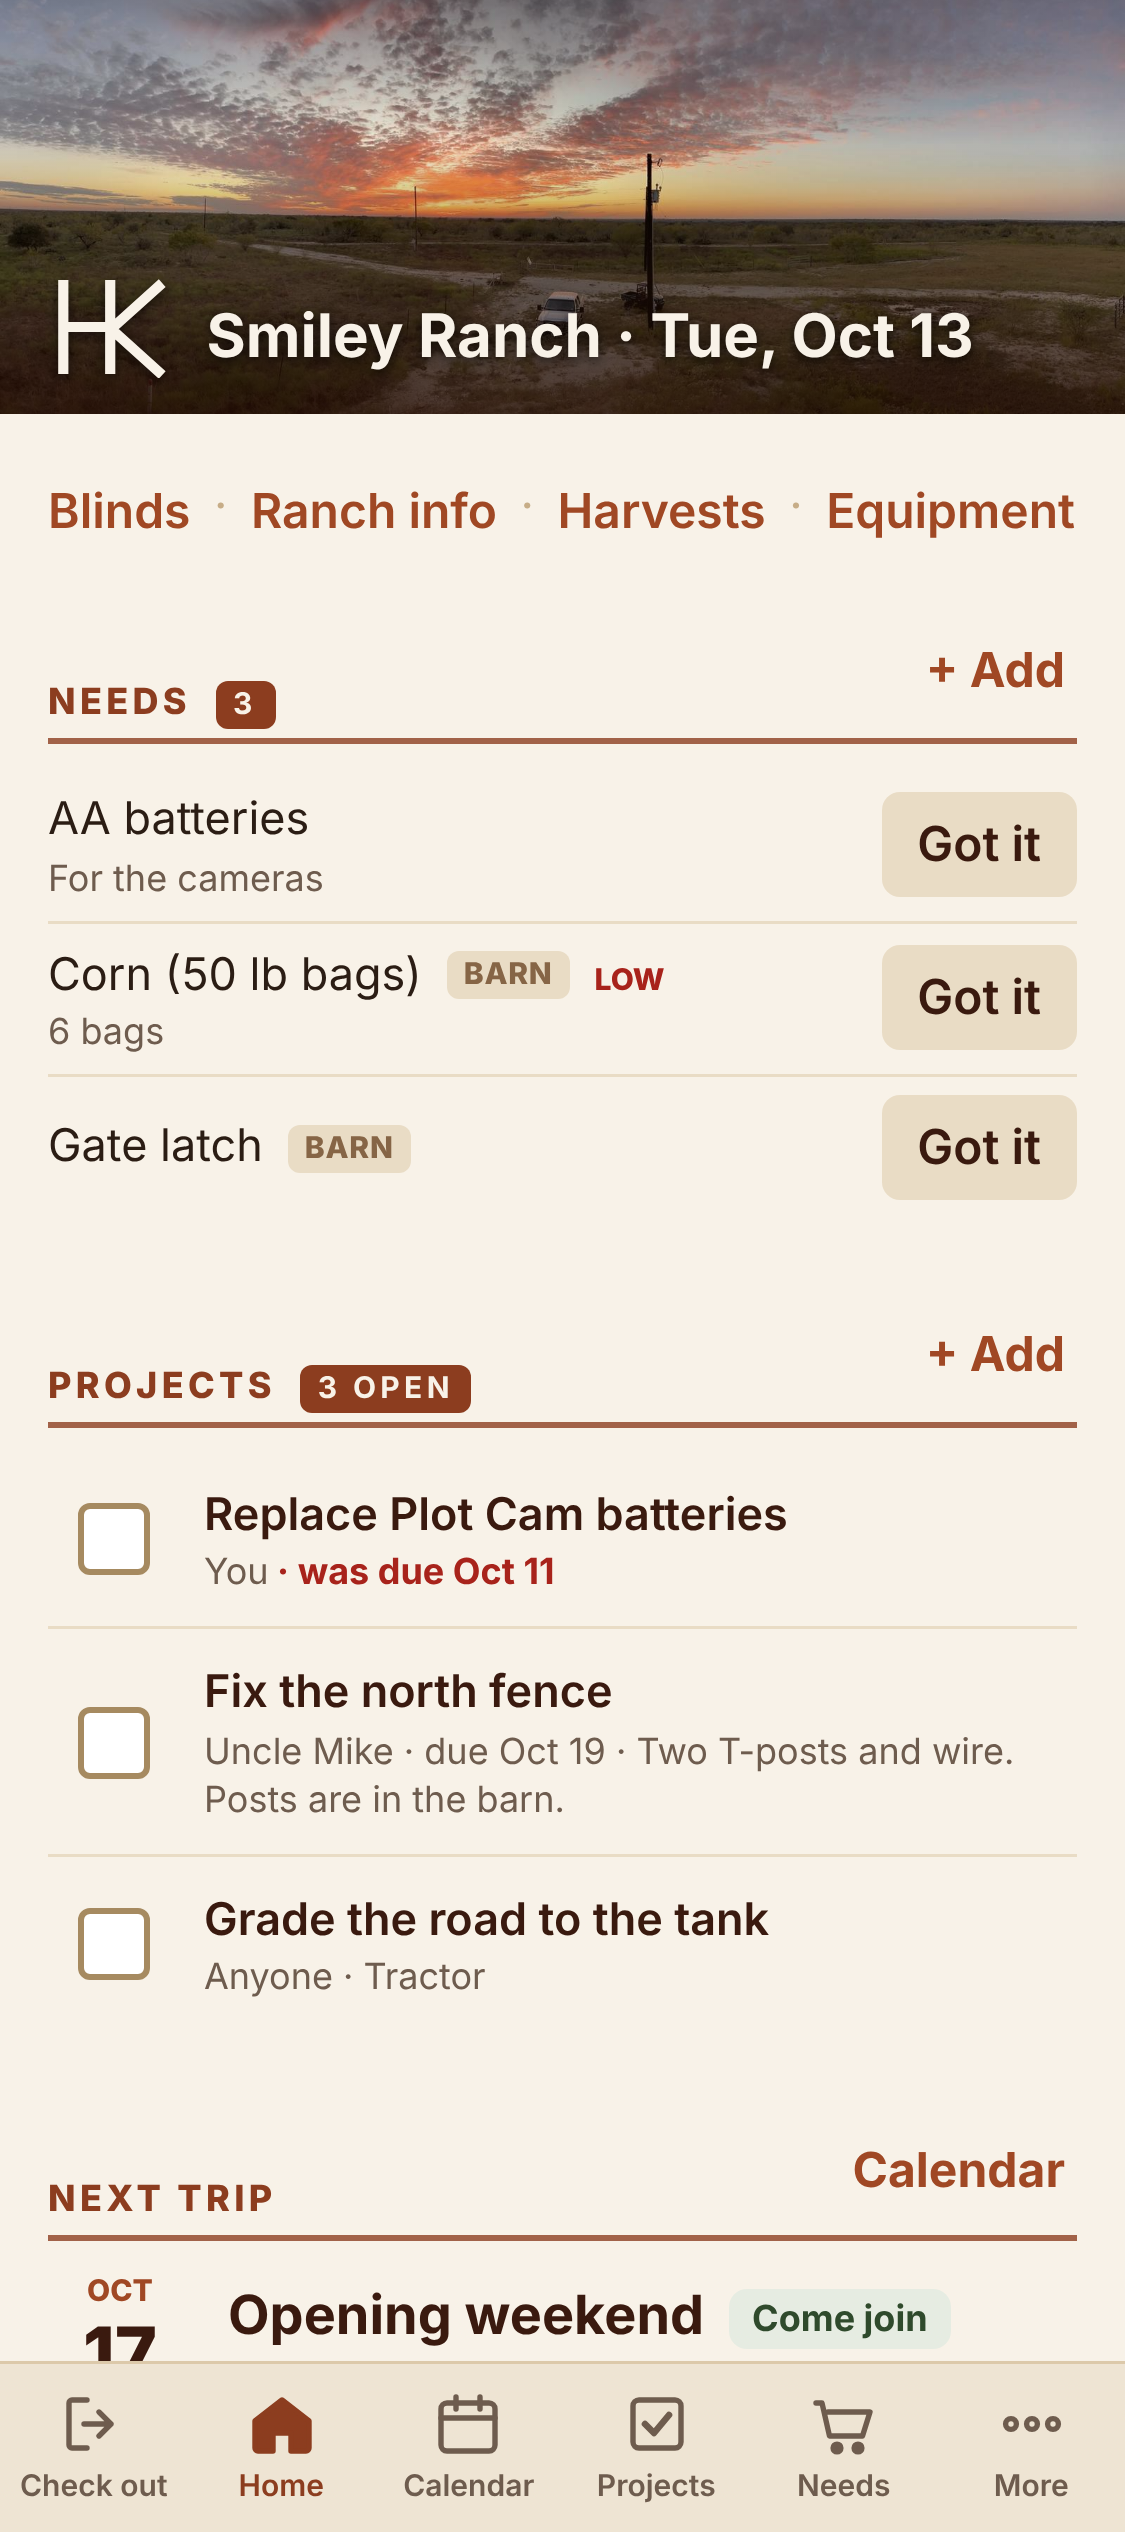
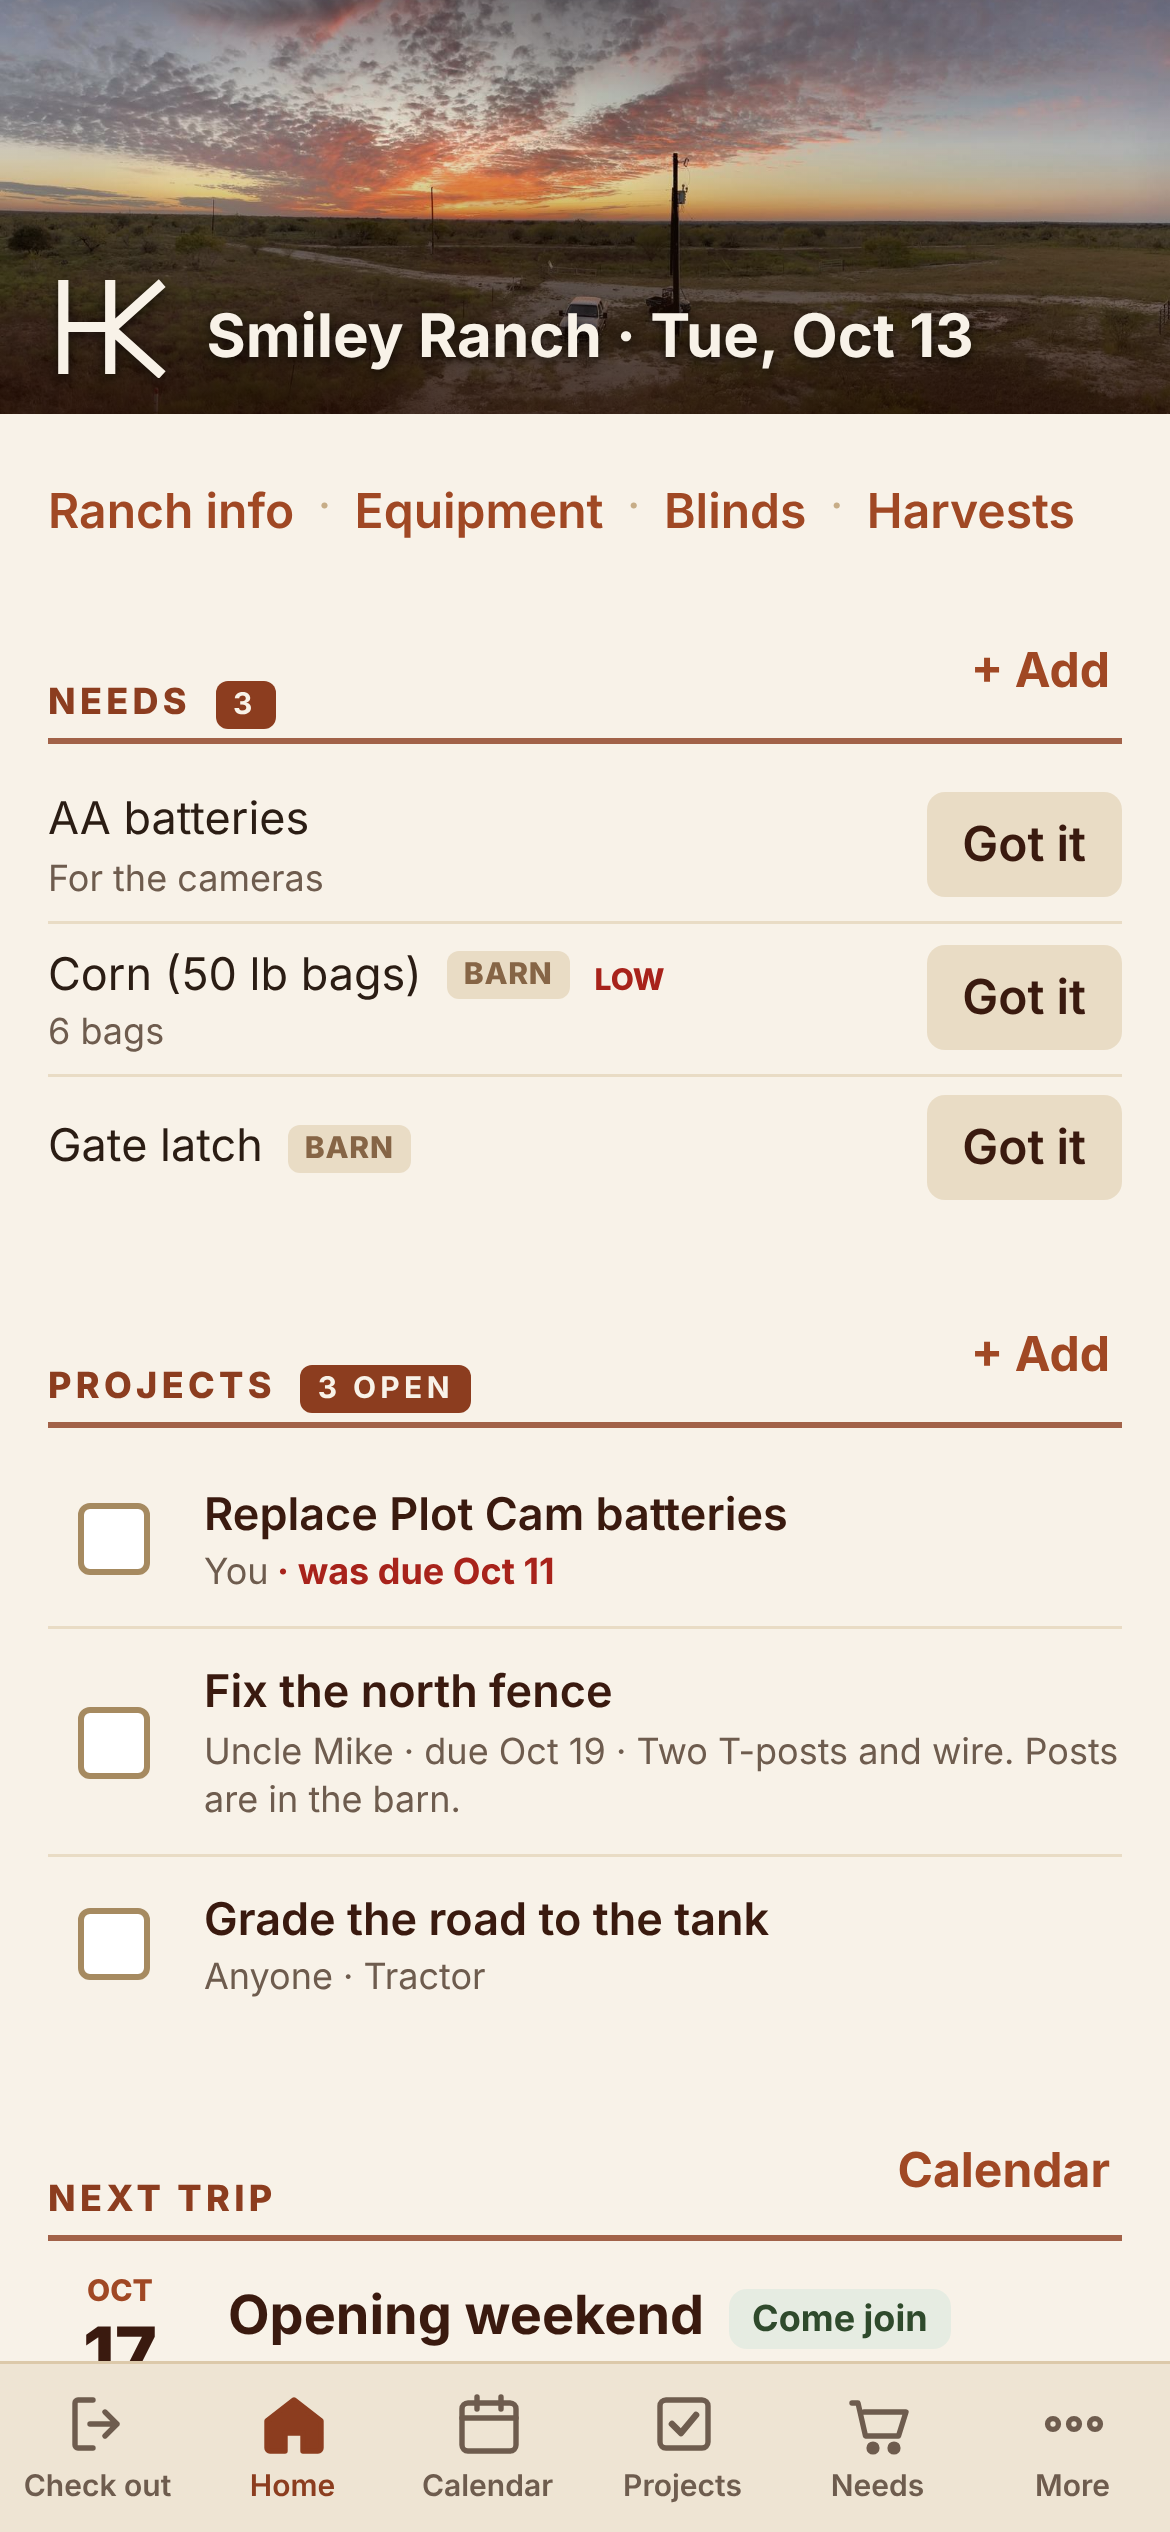
Ribbon order: Ranch info, Equipment, Blinds, Harvests; anyone can add equipment
Claude-Session: https://claude.ai/code/session_01RjS6QfguHLSCFchmoCiRhY

diff --git a/src/screens/Equipment.tsx b/src/screens/Equipment.tsx
@@ -57,12 +57,12 @@ export function Equipment() {
   }
 
   return (
-    <Screen title="Equipment" back="/" right={me.is_admin ? <button type="button" onClick={() => setAdding(true)} className="tap rounded-lg px-3 font-semibold active:bg-clay-800">Add</button> : undefined}>
+    <Screen title="Equipment" back="/" right={<button type="button" onClick={() => setAdding(true)} className="tap rounded-lg px-3 font-semibold active:bg-clay-800">Add</button>}>
       {error && <Note kind="error" className="mb-3">{error}</Note>}
       {!assets ? (
         <div className="flex justify-center py-8 text-clay-900"><Spinner /></div>
       ) : assets.length === 0 ? (
-        <Note>Nothing listed yet.{me.is_admin ? ' Tap Add to put the truck, tractor and ATVs here.' : ''}</Note>
+        <Note>Nothing listed yet. Tap Add to put the truck, tractor and ATVs here.</Note>
       ) : (
         <ul className="space-y-2">
           {assets.map((a) => {
@@ -93,7 +93,7 @@ export function Equipment() {
           })}
         </ul>
       )}
-      <p className="mt-3 text-xs text-ink-muted">Anyone can mark something down and leave a note. Projects and needs tagged to a machine show up on it.</p>
+      <p className="mt-3 text-xs text-ink-muted">Anyone can add a machine, mark something down, and leave a note. Projects and needs tagged to a machine show up on it.</p>
 
       <Sheet open={open !== null} onClose={() => setOpen(null)} title={open?.name}>
         {open && (
@@ -124,13 +124,13 @@ export function Equipment() {
                 <Button variant="secondary" onClick={() => navigate(`/supplies?asset=${open.id}`)}>+ Need</Button>
               </div>
             </div>
-            {me.is_admin && <AdminAssetForm asset={open} onDone={async () => { setOpen(null); await reload() }} />}
+            <AdminAssetForm asset={open} canRemove={me.is_admin} onDone={async () => { setOpen(null); await reload() }} />
           </div>
         )}
       </Sheet>
 
       <Sheet open={adding} onClose={() => setAdding(false)} title="Add equipment or a building">
-        {adding && <AdminAssetForm asset={null} onDone={async () => { setAdding(false); await reload() }} />}
+        {adding && <AdminAssetForm asset={null} canRemove={false} onDone={async () => { setAdding(false); await reload() }} />}
       </Sheet>
 
       <Sheet open={newJob !== null} onClose={() => setNewJob(null)} title={newJob ? `Project on ${newJob.name}` : ''}>
@@ -159,7 +159,7 @@ function NoteForm({ asset, onSaved }: { asset: AssetRow; onSaved: () => Promise<
   )
 }
 
-function AdminAssetForm({ asset, onDone }: { asset: AssetRow | null; onDone: () => Promise<void> }) {
+function AdminAssetForm({ asset, canRemove, onDone }: { asset: AssetRow | null; canRemove: boolean; onDone: () => Promise<void> }) {
   const [name, setName] = useState(asset?.name ?? '')
   const [kind, setKind] = useState<AssetKind>(asset?.kind ?? 'vehicle')
   const [busy, setBusy] = useState(false)
@@ -185,7 +185,7 @@ function AdminAssetForm({ asset, onDone }: { asset: AssetRow | null; onDone: () 
   }
   return (
     <form onSubmit={save} className="space-y-3 border-t border-tan-200 pt-3">
-      {asset && <div className="text-xs font-bold uppercase tracking-wide text-clay-800">Admin</div>}
+      {asset && <div className="text-xs font-bold uppercase tracking-wide text-clay-800">Name and kind</div>}
       {error && <Note kind="error">{error}</Note>}
       <TextInput label="Name" name="assetName" value={name} onChange={(e) => setName(e.target.value)} placeholder="Truck, Tractor, ATV 2, Haul trailer…" maxLength={60} autoFocus={!asset} />
       <div>
@@ -198,7 +198,7 @@ function AdminAssetForm({ asset, onDone }: { asset: AssetRow | null; onDone: () 
       </div>
       <div className="flex flex-wrap gap-2">
         <Button type="submit" busy={busy} disabled={!name.trim()}>{asset ? 'Rename' : 'Add it'}</Button>
-        {asset && <Button type="button" variant="ghost" busy={busy} onClick={remove}>Remove from list</Button>}
+        {asset && canRemove && <Button type="button" variant="ghost" busy={busy} onClick={remove}>Remove from list</Button>}
       </div>
     </form>
   )

diff --git a/src/screens/Home.tsx b/src/screens/Home.tsx
@@ -120,7 +120,7 @@ export function Home() {
       {offline && <Note kind="warn" className="mb-3">No signal right now. Showing what we had last time.</Note>}
 
       <p className="mb-4 flex flex-wrap items-center gap-x-2 gap-y-1 text-[13px] font-semibold text-clay-800">
-        {([['Blinds', '/blinds'], ['Ranch info', '/info'], ['Harvests', '/harvests'], ['Equipment', '/equipment']] as const).map(([label, to], i) => (
+        {([['Ranch info', '/info'], ['Equipment', '/equipment'], ['Blinds', '/blinds'], ['Harvests', '/harvests']] as const).map(([label, to], i) => (
           <span key={to} className="flex items-center gap-2">
             {i > 0 && <span className="text-tan-500" aria-hidden>·</span>}
             <button type="button" onClick={() => navigate(to)} className="tap !min-h-0 py-1 underline-offset-2 hover:underline">{label}</button>

diff --git a/src/lib/demo/mockClient.ts b/src/lib/demo/mockClient.ts
@@ -60,8 +60,8 @@ function canWrite(table: string, op: 'insert' | 'update' | 'delete', row: Row): 
     case 'members': case 'areas': case 'checklist_items': case 'settings': case 'seasons': case 'info_items':
       return isAdmin() ? null : rls(table)
     case 'assets':
-      if (op === 'update') return null
-      return isAdmin() ? null : rls(table)
+      if (op === 'delete') return isAdmin() ? null : rls(table)
+      return null
     case 'pins':
       if (op === 'delete') return isAdmin() ? null : rls(table)
       return null

diff --git a/README.md b/README.md
@@ -41,7 +41,7 @@ Gonzales County, Texas, just south of Smiley. Gonzales CAD parcel **8554**, Abst
 - **Feeders**: each feeder pin carries "a bag lasts about N days" (and optionally a fixed interval as fallback). **Filled it** records the fill in one tap, then asks how many bags. The app guesses the run-out date: yellow within 2 days, red when probably empty. The morning digest uses the same estimate.
 - **Sightings** were dropped by decision.
 - **Ranch info**: gate code, Wi-Fi, shutoffs, trash day, septic and well notes, who to call (tap to call). Admin edits in place; everyone reads it behind the family code. Emergency info is its first section.
-- **Equipment**: house, trailer, barn, truck, tractor, ATVs, haul trailer with Good / Needs attention / Down, a note, and the projects and needs tagged to each. Needs and projects pick a place or machine from this list.
+- **Equipment**: house, trailer, barn, truck, tractor, ATVs, haul trailer with Good / Needs attention / Down, a note, and the projects and needs tagged to each. Anyone can add a machine; admin removes. Needs and projects pick a place or machine from this list.
 - **Blinds** are upkeep cards, not a sign-up: feeder with bag-based run-out and Filled it, motor working or down, lock, chairs, trail cam and its state, a condition line, who last checked, and what's been killed there. Anyone adds or edits a blind; admin removes. Home lists the ones that need a look.
 - **Trips**: "At the ranch now" or "Next trip" on Home. Headcount when you say you're in, shown against the number of beds.
 - **Hunting seasons** (South Zone, Gonzales County) sit on the calendar: a strip under each day, "open now" and "next" at the top, and one line on Home. Admin edits them under More > Hunting seasons; 2026-27 is seeded from the TPWD Outdoor Annual. Check the county page there before you hunt.

diff --git a/SPEC.md b/SPEC.md
@@ -44,7 +44,7 @@ A shared app for one family hunting property. It answers four questions for ever
 - Admin edits lines in place under Ranch info. Values live only in the database, never in code.
 
 ### 2c. Equipment
-- The house, house trailer, barn, truck, tractor, ATVs and haul trailer each have a status (Good / Needs attention / Down) and a note. Anyone can set them. Admin adds and removes entries.
+- The house, house trailer, barn, truck, tractor, ATVs and haul trailer each have a status (Good / Needs attention / Down) and a note. Anyone can add, rename, and set them. Admin removes entries.
 - Needs and projects tag a place or machine from this list (replaces the House / Trailer / Barn tags), so the equipment card shows what's open on it.
 
 ### 2d. Trips
